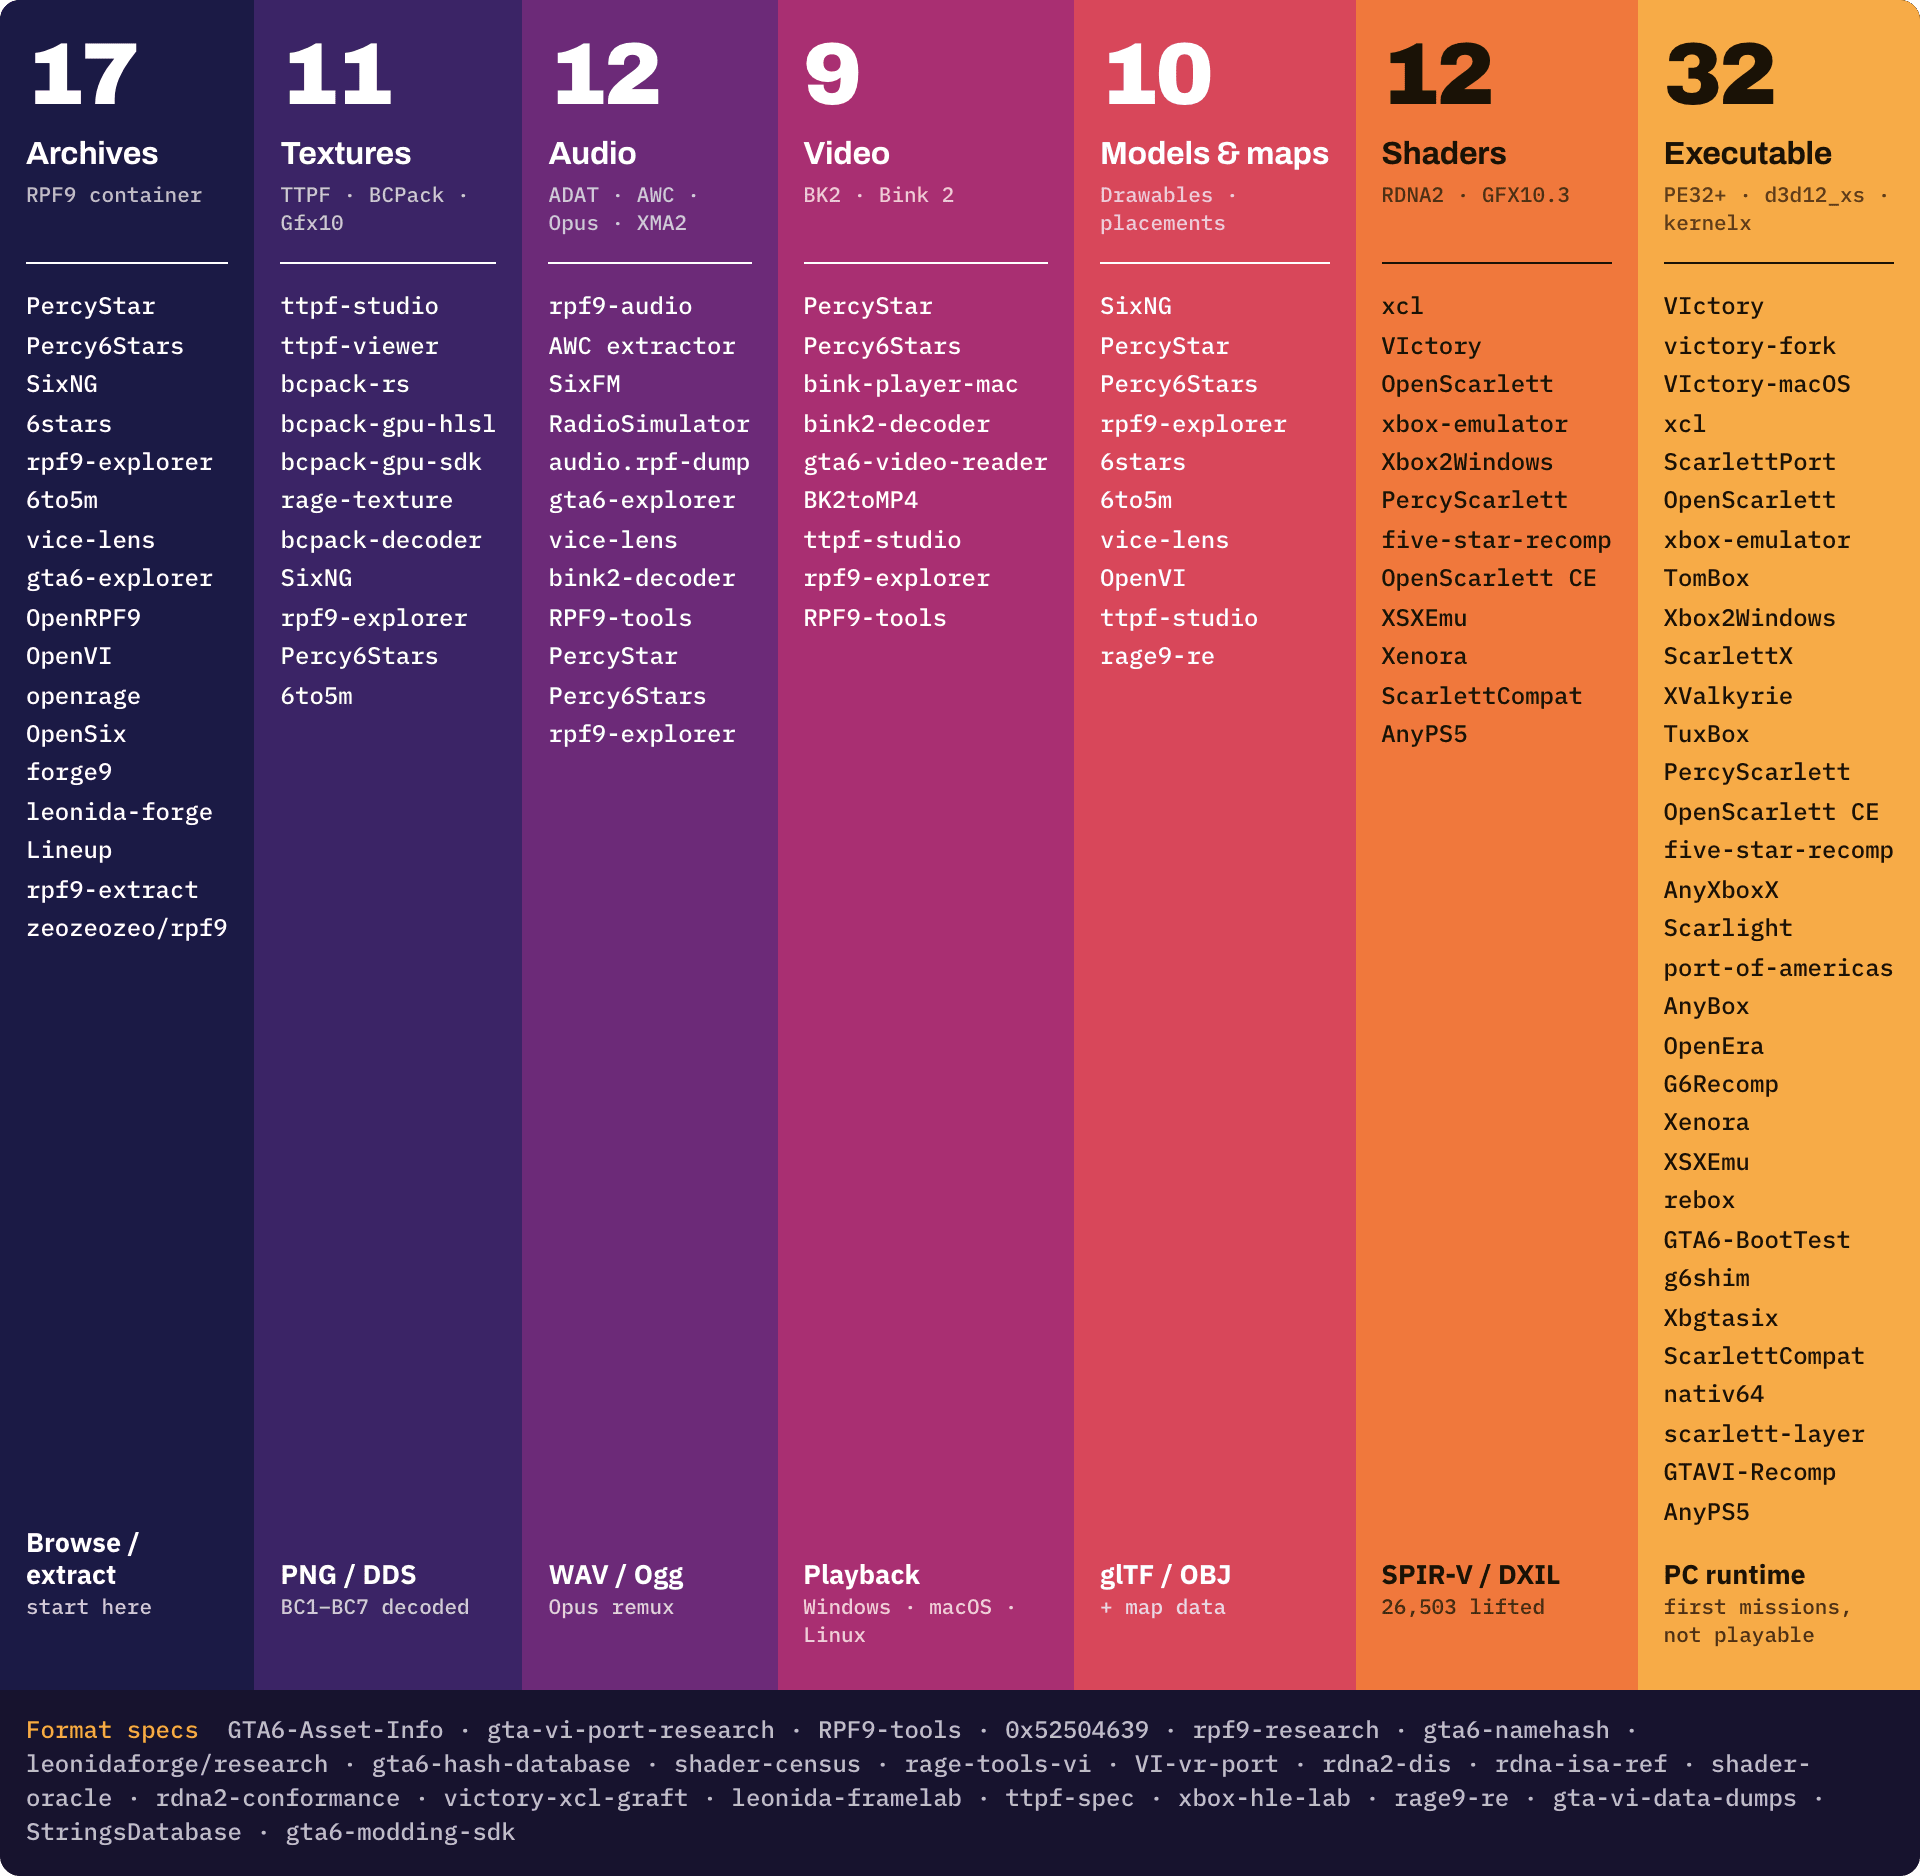
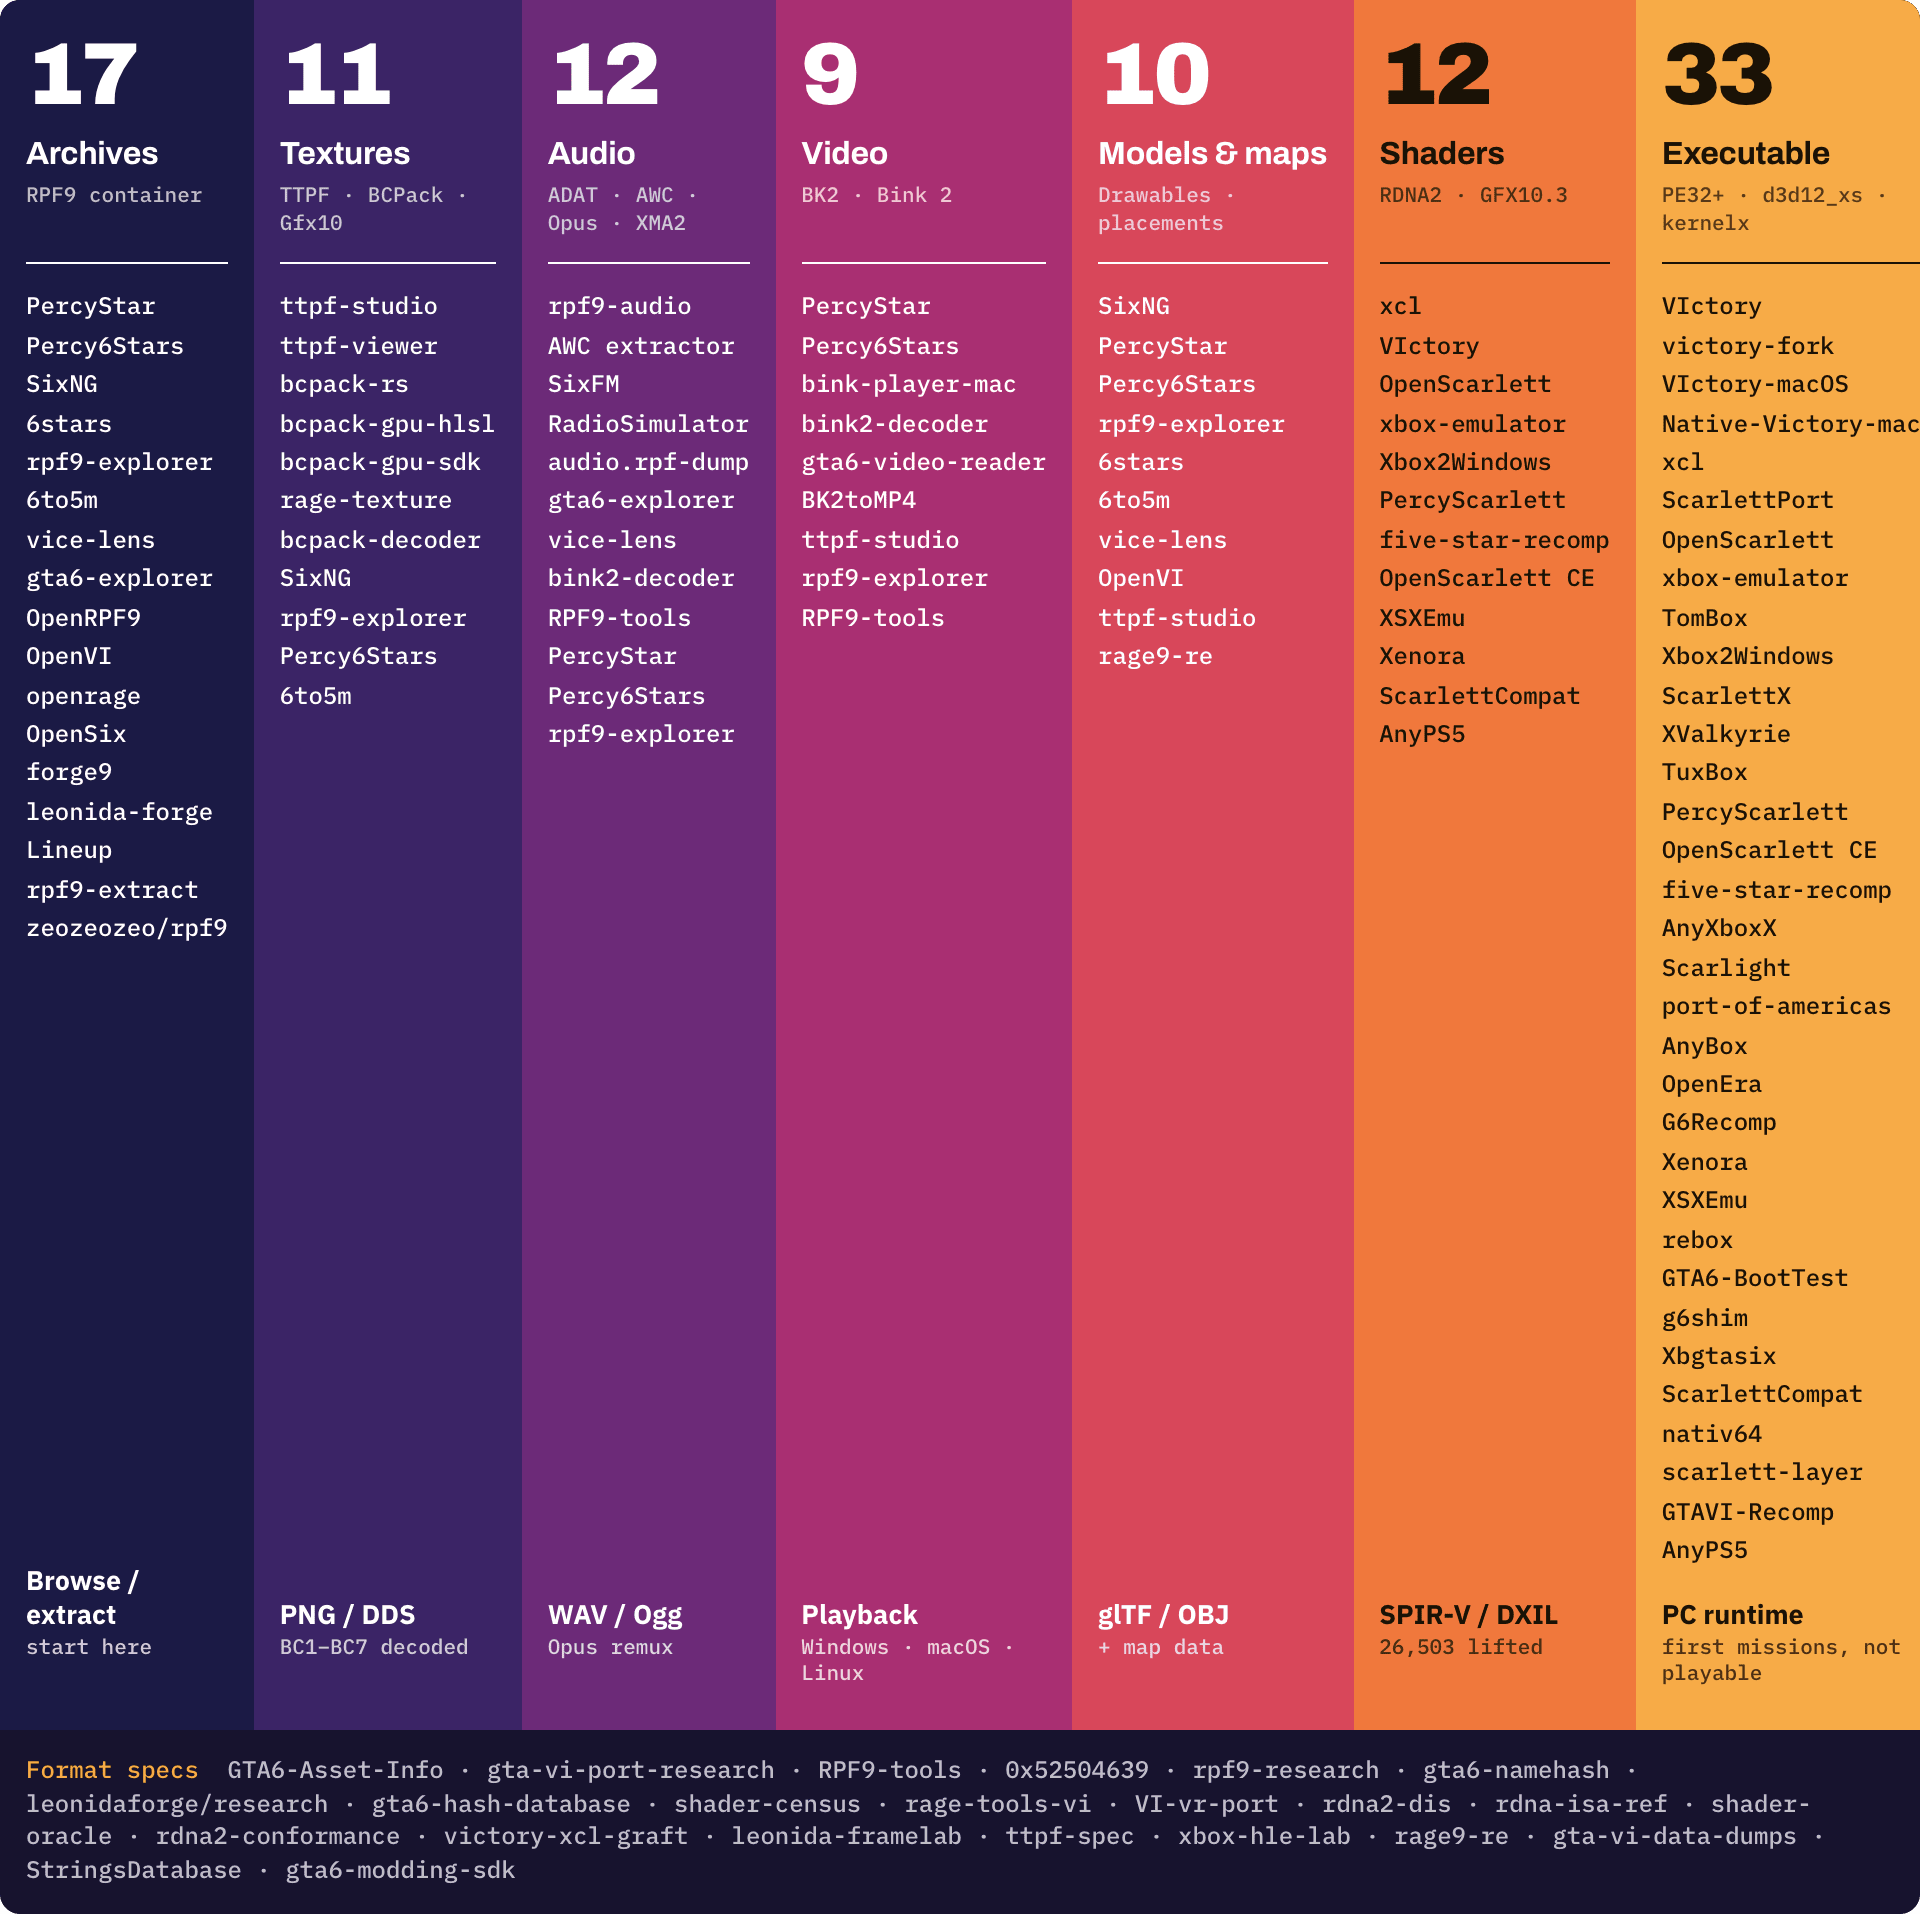
Add Native-Victory-macOS to ecosystem map

diff --git a/assets/src/ecosystem-map.html b/assets/src/ecosystem-map.html
@@ -51,7 +51,7 @@ const COLS = [
   {name:"Shaders", spec:"RDNA2 · GFX10.3", out:"SPIR-V / DXIL", note:"26,503 lifted",
    tools:["xcl","VIctory","OpenScarlett","xbox-emulator","Xbox2Windows","PercyScarlett","five-star-recomp","OpenScarlett CE","XSXEmu","Xenora","ScarlettCompat","AnyPS5"]},
   {name:"Executable", spec:"PE32+ · d3d12_xs · kernelx", out:"PC runtime", note:"first missions, not playable",
-   tools:["VIctory","victory-fork","VIctory-macOS","xcl","ScarlettPort","OpenScarlett","xbox-emulator","TomBox","Xbox2Windows","ScarlettX","XValkyrie","TuxBox","PercyScarlett","OpenScarlett CE","five-star-recomp","AnyXboxX","Scarlight","port-of-americas","AnyBox","OpenEra","G6Recomp","Xenora","XSXEmu","rebox","GTA6-BootTest","g6shim","Xbgtasix","ScarlettCompat","nativ64","scarlett-layer","GTAVI-Recomp","AnyPS5"]},
+   tools:["VIctory","victory-fork","VIctory-macOS","Native-Victory-macOS","xcl","ScarlettPort","OpenScarlett","xbox-emulator","TomBox","Xbox2Windows","ScarlettX","XValkyrie","TuxBox","PercyScarlett","OpenScarlett CE","five-star-recomp","AnyXboxX","Scarlight","port-of-americas","AnyBox","OpenEra","G6Recomp","Xenora","XSXEmu","rebox","GTA6-BootTest","g6shim","Xbgtasix","ScarlettCompat","nativ64","scarlett-layer","GTAVI-Recomp","AnyPS5"]},
 ];
 const SPECS = ["GTA6-Asset-Info","gta-vi-port-research","RPF9-tools","0x52504639","rpf9-research","gta6-namehash","leonidaforge/research","gta6-hash-database","shader-census","rage-tools-vi","VI-vr-port","rdna2-dis","rdna-isa-ref","shader-oracle","rdna2-conformance","victory-xcl-graft","leonida-framelab","ttpf-spec","xbox-hle-lab","rage9-re","gta-vi-data-dumps","StringsDatabase","gta6-modding-sdk"];
 // Dusk sky at the left to the horizon at the right; the last two bands are light enough for dark text.
